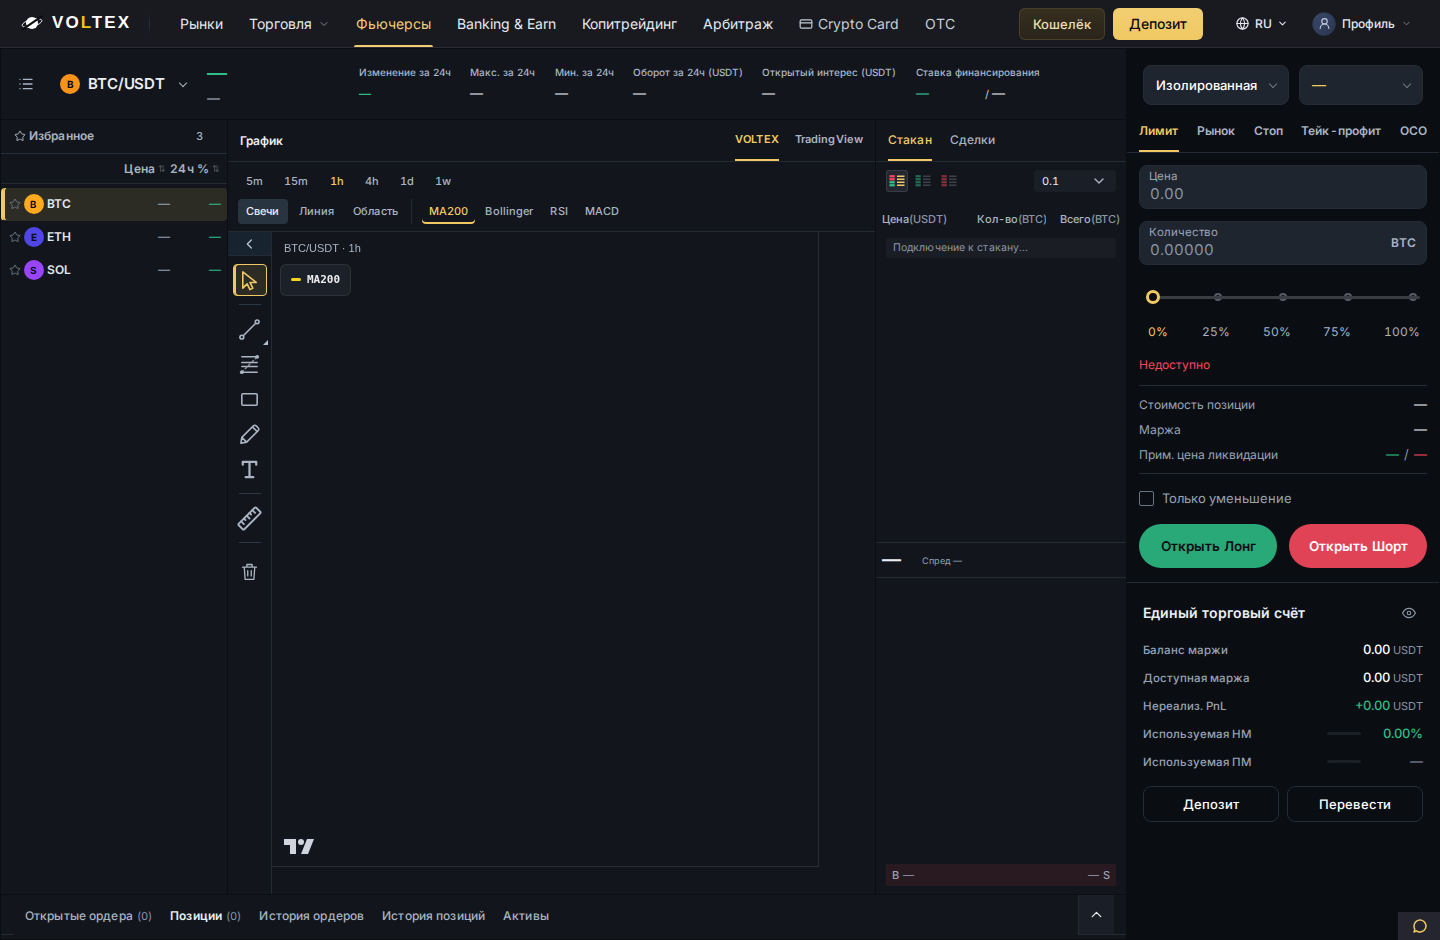
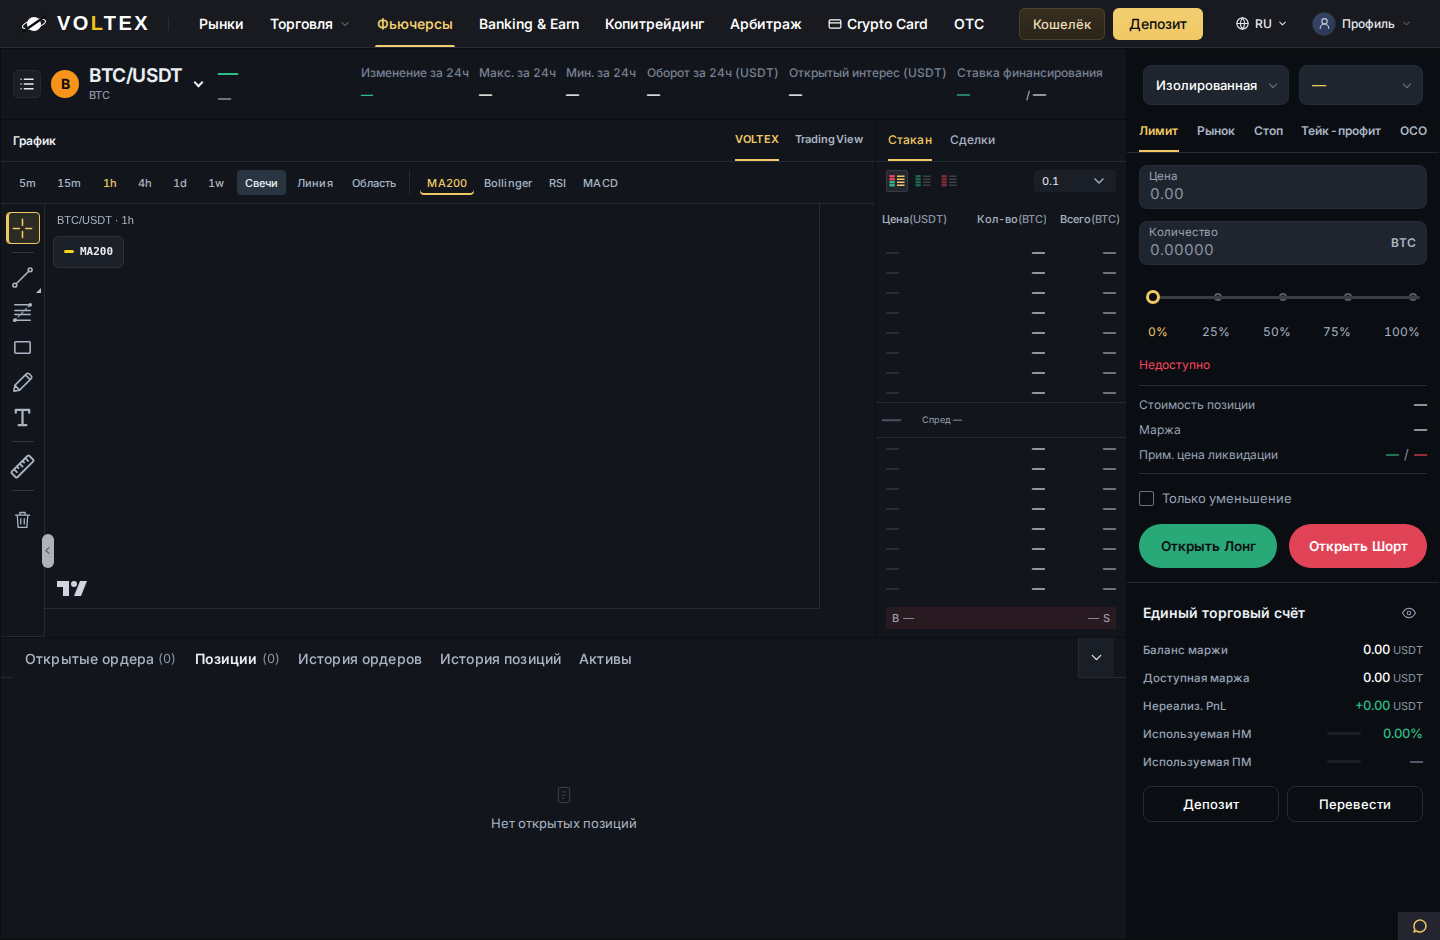
Open the top panel's hierarchy and move the rail's collapse control off the delete tool
Both changes are measured off the owner's own two screenshots, which are
the same size (2000x1103) and so can be compared pixel for pixel.

THE TOP PANEL. Bybit's bar is not uniformly brighter than ours — that was
the obvious reading and it is wrong. Sampled on the same strings, their
labels sit at 2.1:1 and their figures at 18.3:1; ours were 8.7:1 and
15.6:1. Their caption-to-figure gap is 8.7x and ours was 1.8x, which is
why ours reads flat however bright the numbers are. Their label ink on
«Макс. за 24ч» is 11px against our 9px, so their labels are bigger too.

So the hierarchy opens from both ends: figures to #fff at weight 600
(15.6 -> 18.2:1, theirs is 18.3), labels from 10px to 12px and from
#aab4c3 to #788192 (8.7 -> 4.6:1). The gap is now 3.9x.

The labels stop at 4.6:1 and not at Bybit's 2.1:1 on purpose.
`scripts/qa-terminal-text-contrast.cjs` fails any non-market text under
4.5:1, so copying them exactly would put every caption in this panel below
the repo's own floor. 4.63:1 is the dimmest that clears it; the guard
passes with belowAA_4_5: 0.

The bigger label is paid for out of the row's gap rather than off its right
edge. 12px labels cost ~70px across the row, which at 1440 pushed the
funding rate outside the bar — inner scroll 0 -> 56px, a regression this
change introduced and then removed. Seven gaps at clamp(16px,1.35vw,24px)
become clamp(10px,0.72vw,16px) and return 63px of it; below 1400, where the
[…]

diff --git a/frontend/src/components/TerminalChart.css b/frontend/src/components/TerminalChart.css
@@ -132,32 +132,57 @@
    change if it ever moves again. */
 .trade-terminal.futures-reference .terminal-chart-shell .drawing-tools .drawing-rail-shell {
   --rail-toggle-top: 80%;
-  /* The toggle is positioned against this shell in BOTH states now, so the
-     expanded shell needs the containing block the collapsed one already
-     had. Its `overflow:hidden` still clips the tools, not the chip: the
-     chip is 26px inside a 44px rail. */
+  /* The toggle is positioned against this shell in BOTH states, so the
+     expanded shell is the containing block the collapsed one already had. */
   position: relative;
+  /* ...and it may no longer clip. The chip has moved out of the tool column
+     onto the rail's outer edge, where it straddles the border the way
+     Bybit's does, so `overflow:hidden` here would cut it in half. The rail
+     inside still owns its own scrolling, which is what that hidden was
+     doing any real work for. */
+  overflow: visible;
 }
+/* OUT OF THE TOOL COLUMN, ONTO THE EDGE — AND LIGHT, NOT DARK.
+   Two things were wrong and the owner named both. It sat at `left:5px`,
+   which is the tool buttons' own column, directly under the delete tool:
+   one column, two meanings, and a misfire erases a drawing. And a #1f2732
+   chip on a #12161c rail is a 1.2:1 body — the chevron inside it was bright
+   but the control itself was invisible, so people did not know it was there.
+
+   Bybit solves both with one move, and this now copies it: the control
+   leaves the column entirely and becomes a capsule straddling the rail's
+   outer border, where nothing else can be clicked by mistake. Measured off
+   the owner's screenshot, their pill is 11x34px, filled #b1b2b8 on a
+   #101014 rail — 9.0:1 for the body, 8.9:1 for the chevron inside it. Those
+   are the two numbers reproduced here; the width is a couple of pixels over
+   theirs so the target clears 24px on its long axis rather than sitting
+   under it. */
 .trade-terminal.futures-reference .terminal-chart-shell .drawing-rail-toggle {
   order: 0;
   flex: 0 0 auto;
   position: absolute;
   top: var(--rail-toggle-top);
-  left: 5px;
+  left: 100%;
+  /* Straddles the rail's border, as Bybit's does. The offset is not free
+     choice: the tool buttons are 34px centred in the 44px rail, so they end
+     at x=40 and the rail's border is at x=45. At -6px the capsule started
+     at 38 and took a 2px bite out of whichever tool sat at its height —
+     re-introducing, in miniature, the very overlap this change exists to
+     remove. -4px cleared them but left the two touching at x=40, and a
+     control you can slip off onto the delete tool is the thing the owner
+     reported. -2px opens a real gap — capsule at 43, tools ending at 40 —
+     while still crossing the border at 45 that it is meant to sit on. */
+  margin-left: -2px;
   transform: translateY(-50%);
   z-index: 3;
-  width: 26px;
-  min-width: 26px;
-  height: 22px;
-  min-height: 22px;
-  margin: 0;
-  border: 1px solid #39434f;
-  border-radius: 5px;
-  /* BRIGHT, NOT DIM. At --text-secondary on --panel-alt this chip was the
-     quietest thing in the chart area while being the only way to get the
-     tools back. Near-white on a lifted surface reads as a control. */
-  background: #1f2732;
-  color: #eef2f7;
+  width: 12px;
+  min-width: 12px;
+  height: 34px;
+  min-height: 34px;
+  border: 0;
+  border-radius: 999px;
+  background: #b1b2b8;
+  color: #131013;
 }
 /* The hairline that separated the old top bar from the tools now sits on
    the rail's own foot, so the chip reads as below the toolbar rather than
@@ -166,9 +191,8 @@
   border-bottom: 1px solid var(--border, #232a34);
 }
 .trade-terminal.futures-reference .terminal-chart-shell .drawing-rail-toggle:hover {
-  background: #2b3542;
-  border-color: #4a5766;
-  color: #fff;
+  background: #d3d4d9;
+  color: #000;
 }
 .trade-terminal.futures-reference .terminal-chart-shell .drawing-rail-toggle svg {
   width: 13px;
@@ -184,14 +208,17 @@
   bottom: auto;
   left: 0;
   transform: translateY(-50%);
+  /* No rail border to straddle once the rail is gone, so the capsule sits
+     flush on the workspace edge and rounds on the chart side only. It keeps
+     the expanded state's fill, height and `--rail-toggle-top`, so pressing
+     it neither moves it nor changes what it looks like. */
   margin: 0;
-  width: 16px;
-  min-width: 16px;
-  height: 30px;
-  min-height: 30px;
-  border: 1px solid #39434f;
-  border-left: 0;
-  border-radius: 0 5px 5px 0;
+  width: 14px;
+  min-width: 14px;
+  height: 34px;
+  min-height: 34px;
+  border: 0;
+  border-radius: 0 999px 999px 0;
 }
 /* Below 900px the rail is a horizontal strip and the toggle is a column at
    its end — the existing adaptive geometry, which this change leaves alone

diff --git a/frontend/src/pages/trade-terminal/FuturesStudio.css b/frontend/src/pages/trade-terminal/FuturesStudio.css
@@ -42,6 +42,50 @@
 .trade-terminal.futures-reference.futures-studio.futures-studio.futures-studio .ticker-bar .ticker-item .value.price { font-size:var(--terminal-last-size); line-height:var(--terminal-last-line); font-weight:600; letter-spacing:-.2px; }
 .trade-terminal.futures-reference.futures-studio.futures-studio.futures-studio .ticker-bar .value:is(.up,.change.up) { color:#34c79d; }
 .trade-terminal.futures-reference.futures-studio.futures-studio.futures-studio .ticker-bar .value:is(.down,.change.down) { color:#f16c7b; }
+
+/* THE TOP PANEL'S HIERARCHY, MEASURED OFF THE OWNER'S OWN TWO SCREENSHOTS.
+
+   Bybit's bar reads as contrasty not because everything in it is bright but
+   because the caption and the figure are far apart. Sampled from the two
+   images, same strings, same scale: their labels sit at 2.1:1 and their
+   figures at 18.3:1; ours were 8.7:1 and 15.6:1 — a 1.8x gap where theirs
+   is 8.7x. That is why ours looks flat however bright the numbers are.
+
+   So the figures go to white, at the weight theirs carry. The labels take
+   Bybit's SIZE — 11px of ink against our 9px, measured on “Макс. за 24ч” in
+   both shots — and dim only as far as this repo's own floor allows:
+   `scripts/qa-terminal-text-contrast.cjs` fails any non-market text under
+   4.5:1, so they stop at 4.6:1 rather than copying Bybit's 2.1:1, which
+   would buy a screenshot match with this panel's legibility. Bigger and
+   quieter still opens the gap to 3.9x, which is the effect asked for.
+
+   Seven class selectors, because the premium token layer that currently
+   wins these two colours is six — and it has to keep owning every other
+   surface in the same selector list. The order book headers, the positions
+   table and the account labels are all in there and none of them is being
+   asked to change. */
+.trade-terminal.trade-terminal.futures-reference.futures-reference.futures-studio.futures-studio.futures-studio .ticker-bar .ticker-item > .label {
+  font-size:12px; line-height:16px; color:#788192;
+}
+/* The primary-price item is excluded on purpose: it holds the big last
+   price and the mark price under it, and the mark price is grey in Bybit's
+   bar too. `.up`/`.down` are excluded so the change and the funding rate
+   keep the green and red they already carry — this is a contrast pass, not
+   a recolouring of the market signals. */
+.trade-terminal.trade-terminal.futures-reference.futures-reference.futures-studio.futures-studio.futures-studio .ticker-bar .ticker-item:not(.futures-primary-price) > .value:not(.up):not(.down) {
+  color:#fff; font-weight:600;
+}
+/* Bybit's 12px where the row can afford it, 11px where it cannot. Below
+   1400 this row was ALREADY past its right edge before any of this — the
+   funding rate sat outside the bar on `main` at 1366 and 1280 — so the
+   narrow layouts are not asked to pay for the bigger label on top of that.
+   Measured: at 12px throughout, 1366 went 53px over to 64px and 1280 131px
+   to 150px; at 11px here both come back under where they started. */
+@media (max-width: 1399px) {
+  .trade-terminal.trade-terminal.futures-reference.futures-reference.futures-studio.futures-studio.futures-studio .ticker-bar .ticker-item > .label {
+    font-size:11px;
+  }
+}
 .trade-terminal.futures-reference.futures-studio.futures-studio.futures-studio .ticker-bar .futures-secondary-price { font-size:10px; }
 .trade-terminal.futures-reference.futures-studio.futures-studio.futures-studio .ticker-bar .futures-secondary-price :is(.label,.value) { font-size:9px; color:#91a2b4; }
 .trade-terminal.futures-reference.futures-studio.futures-studio.futures-studio .ticker-bar .futures-funding-values { flex-wrap:wrap; gap:3px; }

diff --git a/frontend/src/pages/trade-terminal/TerminalAccountPanel.css b/frontend/src/pages/trade-terminal/TerminalAccountPanel.css
@@ -116,7 +116,16 @@
    created the oversized empty zone highlighted in the production capture. */
 .trade-terminal.trade-terminal.trade-terminal.trade-terminal.futures-reference.futures-studio.terminal-studio .futures-ticker-bar {
   justify-content:flex-start;
-  gap:clamp(16px,1.35vw,24px);
+  /* The gap pays for the bigger labels (FuturesStudio.css), so the bar's
+     total width is unchanged rather than one item wider than the panel.
+     Measured at 1440: the old clamp resolved to 19.44px and the row carries
+     seven gaps, while the 12px labels cost ~70px across it — the funding
+     rate, last in the row, was landing outside the bar and could only be
+     reached by scrolling. 0.72vw resolves to 10.4px here, returning 63px of
+     the 70. The remainder comes from the 1440 row having had 25px of slack.
+     Bybit's own row is tighter than ours was, so this reads as closer to
+     the reference, not further from it. */
+  gap:clamp(10px,0.72vw,16px);
 }
 .trade-terminal.trade-terminal.trade-terminal.trade-terminal.futures-reference.futures-studio.terminal-studio .futures-ticker-bar .pair-selector {
   margin-right:0;

diff --git a/docs/AI_HANDOFF.md b/docs/AI_HANDOFF.md
@@ -3044,3 +3044,24 @@ withdrawal was placed.
 - **Material files.** `frontend/src/pages/FuturesPage.tsx`, `frontend/src/pages/trade-terminal/{TerminalAccountPanel,ReferenceFuturesTerminal,FuturesStudio,FuturesDesignVariants}.css`, `frontend/src/components/{TerminalChart.css,FuturesPairList.css,PriceChart.tsx}`, `frontend/src/index.css`, `scripts/qa-futures-layout.cjs`, `docs/qa/futures-layout/`.
 - **PRESERVED FROM CODEX.** Everything in `main` at `4098ad5` untouched; no Codex file reverted or rewritten. Private trading has its own grid (`.private-terminal-grid`, `.private-market-sidebar`) and keeps its rail; Spot/CFD do not carry `.futures-reference` and are unaffected.
 - **NOT VERIFIED.** No check against the deployed instance — egress to `voltextech.net` and `onrender.com` is blocked from this container. Everything here is the local harness against the real production bundle.
+
+### 2026-09-19 — Claude — The top panel's contrast and the rail's collapse control, to the owner's Bybit reference (`claude/peaceful-volta-h5zw7g`)
+
+- **SCOPE.** The two things the owner marked on their own two screenshots: the Futures ticker bar's typography and contrast, and the drawing rail's collapse button. Cut from `main` at `a7520ea`. Nothing else on the terminal touched.
+- **BOTH SCREENSHOTS WERE MEASURED, NOT EYEBALLED.** The owner's VOLTEX and Bybit captures are both 2000×1103, so they were sampled pixel-for-pixel and compared on the same strings. That reversed the obvious reading: Bybit's bar is not uniformly brighter than ours. Their **labels** sit at **2.1:1** and their **figures** at **18.3:1**; ours were **8.7:1** and **15.6:1**. Their caption-to-figure gap is **8.7×**, ours was **1.8×** — which is why ours looks flat however bright the numbers are. Label ink on «Макс. за 24ч» measured **11px** in their shot against **9px** in ours, so their labels are also BIGGER, not smaller.
+- **SO THE HIERARCHY WAS OPENED FROM BOTH ENDS.** Figures → `#fff` at weight 600 (**15.6 → 18.2:1**, theirs is 18.3). Labels → **10px → 12px** and `#aab4c3` → `#788192` (**8.7 → 4.6:1**). Gap now **3.9×**.
+- **THE LABELS STOP AT 4.6:1 AND NOT AT BYBIT'S 2.1:1, ON PURPOSE.** `scripts/qa-terminal-text-contrast.cjs` in this repo fails any non-market text under 4.5:1. Copying Bybit exactly would have put every caption in the panel below the repo's own accessibility floor. 4.63:1 is the dimmest that clears it, and the guard passes with `belowAA_4_5: 0` and `minRatio: 4.63` — the ticker labels are now the dimmest non-market text in the terminal, by design and by one third of a point.
+- **THE BIGGER LABEL WAS PAID FOR OUT OF THE GAP, NOT OFF THE RIGHT EDGE.** 12px labels cost ~70px across the row. Measured at 1440 that pushed «Ставка финансирования» outside the bar — inner scroll **0 → 56px**, a regression this change introduced and then removed. The row's seven gaps were `clamp(16px,1.35vw,24px)`; at `clamp(10px,0.72vw,16px)` they return 63px. Below 1400, where the row was ALREADY over its edge on `main`, the label takes 11px instead of 12px so the narrow layouts pay nothing.
+
+  | ticker bar inner scroll | 1920 | 1664 | 1440 | 1366 | 1280 |
+  |---|---|---|---|---|---|
+  | `main` a7520ea | 0 | 0 | 0 | 53px | 131px |
+  | this branch | 0 | 0 | **0** | **19px** | **105px** |
+
+  Every width is better than or equal to `main`; nothing is clipped at any of them (`scrollWidth > clientWidth` on every label and value: none).
+- **THE COLLAPSE CONTROL HAD TWO FAULTS AND THE OWNER NAMED BOTH.** It sat at `left:5px` — the tool buttons' own column, on top of the delete tool, which the before/after capture shows literally covering the trash icon. And a `#1f2732` chip on a `#12161c` rail is a **1.2:1** body: its chevron was bright but the control itself was invisible.
+- **BYBIT SOLVES BOTH WITH ONE MOVE, AND THIS COPIES IT, MEASURED.** Their control leaves the tool column and becomes a capsule straddling the rail's outer border. Sampled off their screenshot: **11×34px**, fill `#b1b2b8` on a `#101014` rail — **9.0:1** for the body, **8.9:1** for the chevron inside it. Ours is now **12×34px**, fill `#b1b2b8`, **8.6:1** body and **8.94:1** chevron. Width is a couple of pixels over theirs so the target clears 24px on its long axis. `sameColumn` is now **false** at every width and `overlapsTools` is **empty** at 1920/1664/1440/1366/390 — it started at −6px offset overlapping a tool by 2px, then −4px touching it at exactly x=40, and sits at −2px with a measured 2.5px gap to the tool column.
+- **WHAT WAS NOT CHANGED, DELIBERATELY.** The funding rate stays green rather than Bybit's amber, and the last price keeps its green/red — this was a contrast pass, not a recolouring of market signals. The mark price under the last price stays grey (Bybit's is too). `--rail-toggle-top: 80%` is untouched: a previous round records that height as one the owner marked themselves, and the column move is what removes the misclick, not a further drop. Codex's premium token layer is untouched — the new rules carry seven class selectors precisely so that layer keeps owning the order book headers, the positions table and the account labels, none of which were asked to change.
+- **Material files.** `frontend/src/pages/trade-terminal/FuturesStudio.css` (ticker label and figure typography), `frontend/src/pages/trade-terminal/TerminalAccountPanel.css` (the row gap that pays for it), `frontend/src/components/TerminalChart.css` (the capsule, both states), `docs/qa/top-panel/` (before/after captures), `docs/qa/terminal-contrast/` (the guard's refreshed evidence).
+- **TESTED.** Frontend `tsc --noEmit` PASS, `vite build` PASS. `scripts/qa-terminal-text-contrast.cjs` PASS (`belowAA_4_5: 0`, `minRatio 4.63`). `scripts/qa-native-demo-browser.cjs` **28/28**, `scripts/qa-large-numbers-browser.cjs` **58/58**. Whole repository suite against a `main` `a7520ea` worktree, both sides built: **4 371 / 4 532 passed, 123 failing tests in 29 suites — identical on both sides, zero new, zero fixed.**
+- **NOT VERIFIED.** No production check. The ticker feed is not reachable from the local harness, so the figures in the before/after capture are the owner's own numbers written into the value spans on BOTH sides; the typography and colour on screen are each build's real computed styles, and every ratio quoted here is computed from the live DOM or sampled from the owner's images.
